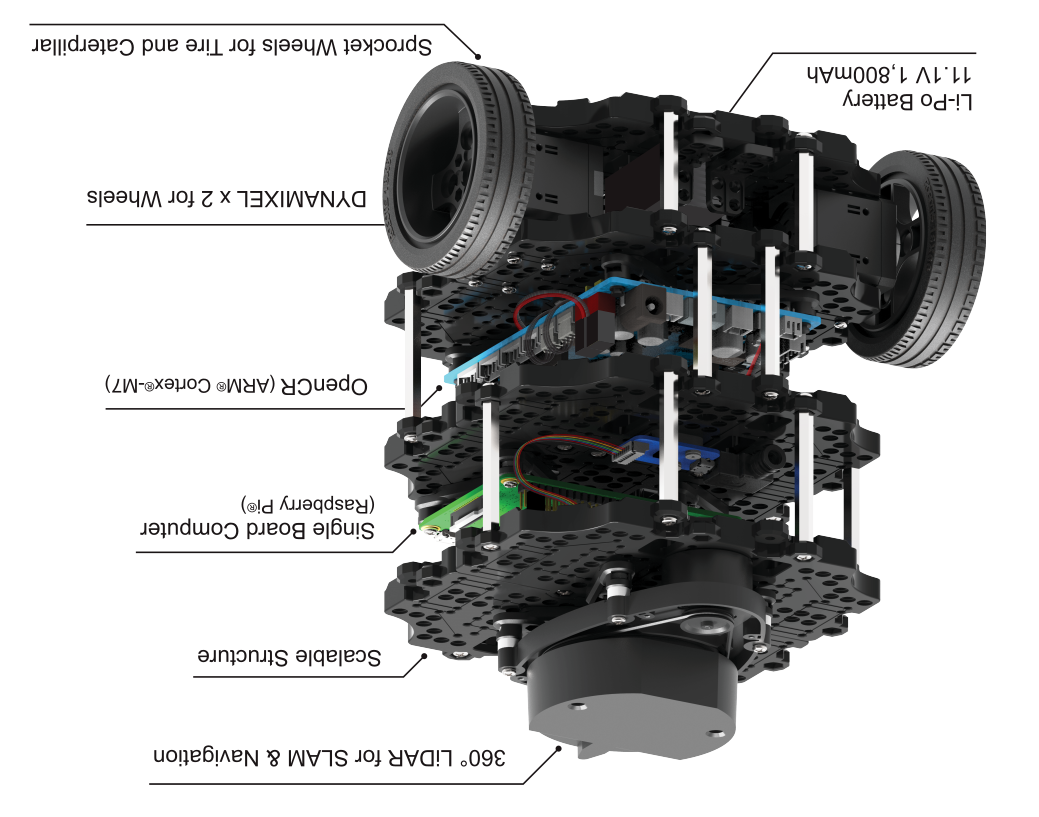
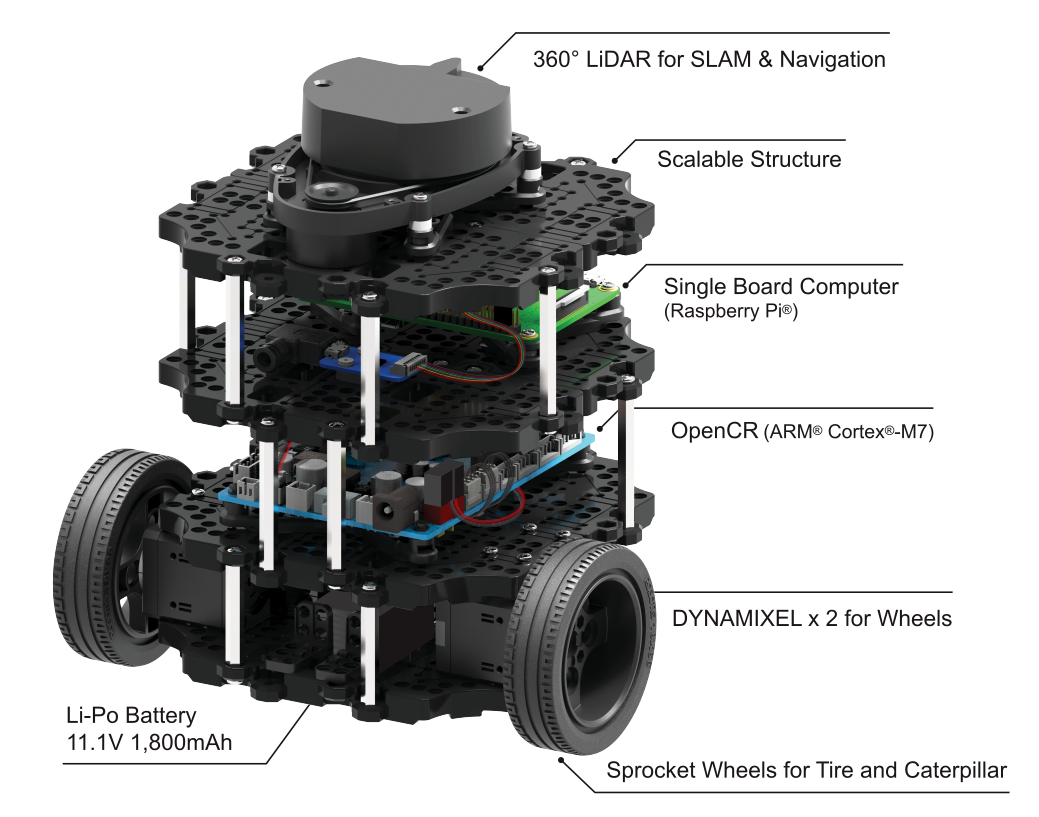
added images for TB3

diff --git a/docs/source/friends.rst b/docs/source/friends.rst
@@ -13,7 +13,7 @@ In the video, watch how TurtleBot3 can be assembled and reassembled with a few a
 
 With this extendible structure, handful of TurtleBot3 friends with various characteristics could be built. You can customize the structure to create something new other than the below examples.
 
-TurtleBot3 Friends List
+TurtleBot3 Friends List:
 
 - :ref:`TurtleBot3 Friends: Car<section_car>`
 - :ref:`TurtleBot3 Friends: OpenManipulator Chain<section_openmanipulator_chain>`

diff --git a/docs/source/hardware.rst b/docs/source/hardware.rst
@@ -8,9 +8,9 @@ Hardware Setup
 Main Components
 ---------------
 
-.. image:: _static/hardware/turtlebot3_main_components_burger.png
+.. image:: _static/hardware/turtlebot3_burger_components.png
 
-.. image:: _static/hardware/turtlebot3_main_components_waffle.png
+.. image:: _static/hardware/turtlebot3_waffle_components.png
 
 Part List
 ---------
